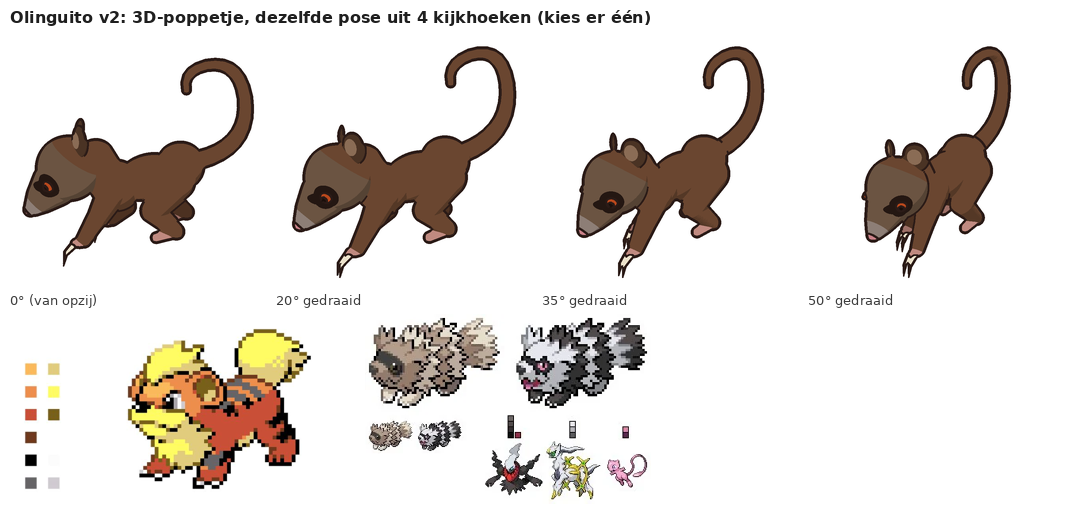
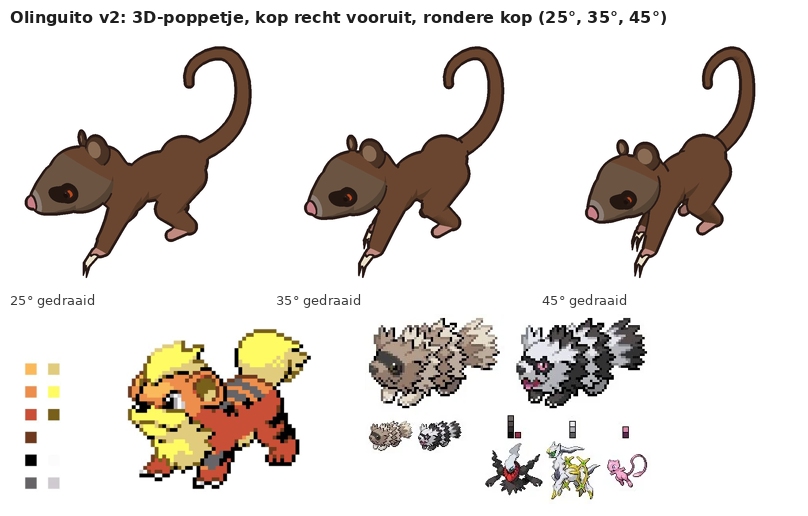
Olinguito v2 3D-poppetje: kop recht vooruit, rondere kop, hoeken 25/35/45
Claude-Session: https://claude.ai/code/session_01FVyooZXgKs7PM2YEGi44tc

diff --git a/docs/concept/ontwerp/olinguito_v2/scripts/pop3d.py b/docs/concept/ontwerp/olinguito_v2/scripts/pop3d.py
@@ -12,7 +12,7 @@ HERE = os.path.dirname(os.path.abspath(__file__))
 OUT = os.path.join(HERE, '..')
 R = 768          # renderresolutie (3x van 256)
 HEAD_SCALE = 1.35
-HEAD_SHIFT = np.array((-4, 30, 0.0))
+HEAD_SHIFT = np.array((-6, 30, 0.0))
 LINE = np.array((43, 27, 23), np.uint8)
 
 COL = {
@@ -86,12 +86,12 @@ def olinguito():
     m.chain([(-36, 0, 0, 22), tuple(piv + HEAD_SHIFT) + (20,)], 'fur')
     cr = H((-66, -10, 0))
     m.ell(cr, 25 * hs, 'head')
-    m.chain([tuple(H(q[:3])) + (q[3] * hs,) for q in [(-76, -22, 0, 18), (-85, -32, 0, 13), (-91, -39, 0, 8.5)]], 'head')
-    nose = H((-94, -42, 0))
-    m.ell(nose, 6.2 * hs, 'nose')
+    m.chain([tuple(H(q[:3])) + (q[3] * hs,) for q in [(-78, -14, 0, 20), (-87, -18, 0, 16), (-94, -21, 0, 12)]], 'head')
+    nose = H((-104, -22, 0))
+    m.ell(nose, 6.0 * hs, 'nose')
     eyes = []
     for sz in (1, -1):
-        d = np.array((-0.62, -0.30, 0.72 * sz)); d /= np.linalg.norm(d)
+        d = np.array((-0.72, -0.10, 0.69 * sz)); d /= np.linalg.norm(d)
         e = cr + d * 23.5 * hs
         eyes.append(e)
         m.ell(e, 4.4 * hs, 'eye')
@@ -99,14 +99,14 @@ def olinguito():
         m.ell(e + d * 3.0 * hs + np.array((-0.8, 1.5, 0.0)) * hs, 1.0 * hs, 'glint')
     arc = []
     for t in np.linspace(-1, 1, 41):
-        d = np.array((-0.62, -0.30, 0.72 * t)); d /= np.linalg.norm(d)
-        arc.append(cr + d * 25 * hs)
+        d = np.array((-0.72, -0.10, 0.69 * t)); d /= np.linalg.norm(d)
+        arc.append(cr + d * 26.5 * hs)
     m.tex = dict(cr=cr, eyes=eyes, arc=np.array(arc), nose=nose, hs=hs)
     # oren bovenop, naar voren gericht
     for sz in (1, -1):
-        Re = rot_y(math.radians(25 * sz))
+        Re = rot_y(math.radians(25 if sz > 0 else 0))
         c = H((-58, 16, 13 * sz))
-        k = 1.0 if sz > 0 else 0.7    # verre oor kleiner: nauwelijks zichtbaar
+        k = 1.0 if sz > 0 else 0.6    # verre oor kleiner: nauwelijks zichtbaar
         m.ell(c, np.array((4, 12, 11)) * hs * k, 'ear', Re)
         m.ell(c + Re @ np.array((-1.8, 0.5, 0)) * hs * k, np.array((2.6, 8, 7.5)) * hs * k, 'earin', Re)
     # poten (x, y, z, straal); nabij = +z
@@ -176,8 +176,8 @@ def render(m, yaw, pitch, scale, center):
     u = (q - t['cr']) / (25 * hs)
     g = np.full(len(q), groups.index('head'))
     g[u @ np.array((0.55, 0.83, 0)) > 0.45] = groups.index('crown')
-    g[dn < 13 * hs] = groups.index('muzzle')
-    g[(de < 9.5 * hs) | (da < 4.6 * hs)] = groups.index('mask')
+    g[dn < 10 * hs] = groups.index('muzzle')
+    g[(de < 8.0 * hs) | (da < 6.5 * hs)] = groups.index('mask')
     gid[head] = g
     return zbuf, gid, nrm, groups
 
@@ -232,7 +232,7 @@ def view(m, yaw, pitch=20, size=232):
     return shade(*render(m, yaw, pitch, scale, ((x0 + x1) / 2, (y0 + y1) / 2)))
 
 
-def sheet(yaws=(0, 20, 35, 50)):
+def sheet(yaws=(25, 35, 45)):
     m = olinguito()
     F = ImageFont.truetype('/usr/share/fonts/truetype/dejavu/DejaVuSans.ttf', 13)
     FB = ImageFont.truetype('/usr/share/fonts/truetype/dejavu/DejaVuSans-Bold.ttf', 16)
@@ -240,7 +240,7 @@ def sheet(yaws=(0, 20, 35, 50)):
     W = 10 + 266 * len(yaws)
     im = Image.new('RGB', (W, 34 + 256 + 26 + 200), 'white')
     d = ImageDraw.Draw(im)
-    d.text((10, 8), 'Olinguito v2: 3D-poppetje, dezelfde pose uit 4 kijkhoeken (kies er één)', font=FB, fill=(30, 30, 30))
+    d.text((10, 8), 'Olinguito v2: 3D-poppetje, kop recht vooruit, rondere kop (25°, 35°, 45°)', font=FB, fill=(30, 30, 30))
     for i, yaw in enumerate(yaws):
         v = view(m, yaw)
         v.save(os.path.join(OUT, f'pop3d_{yaw}.png'))
